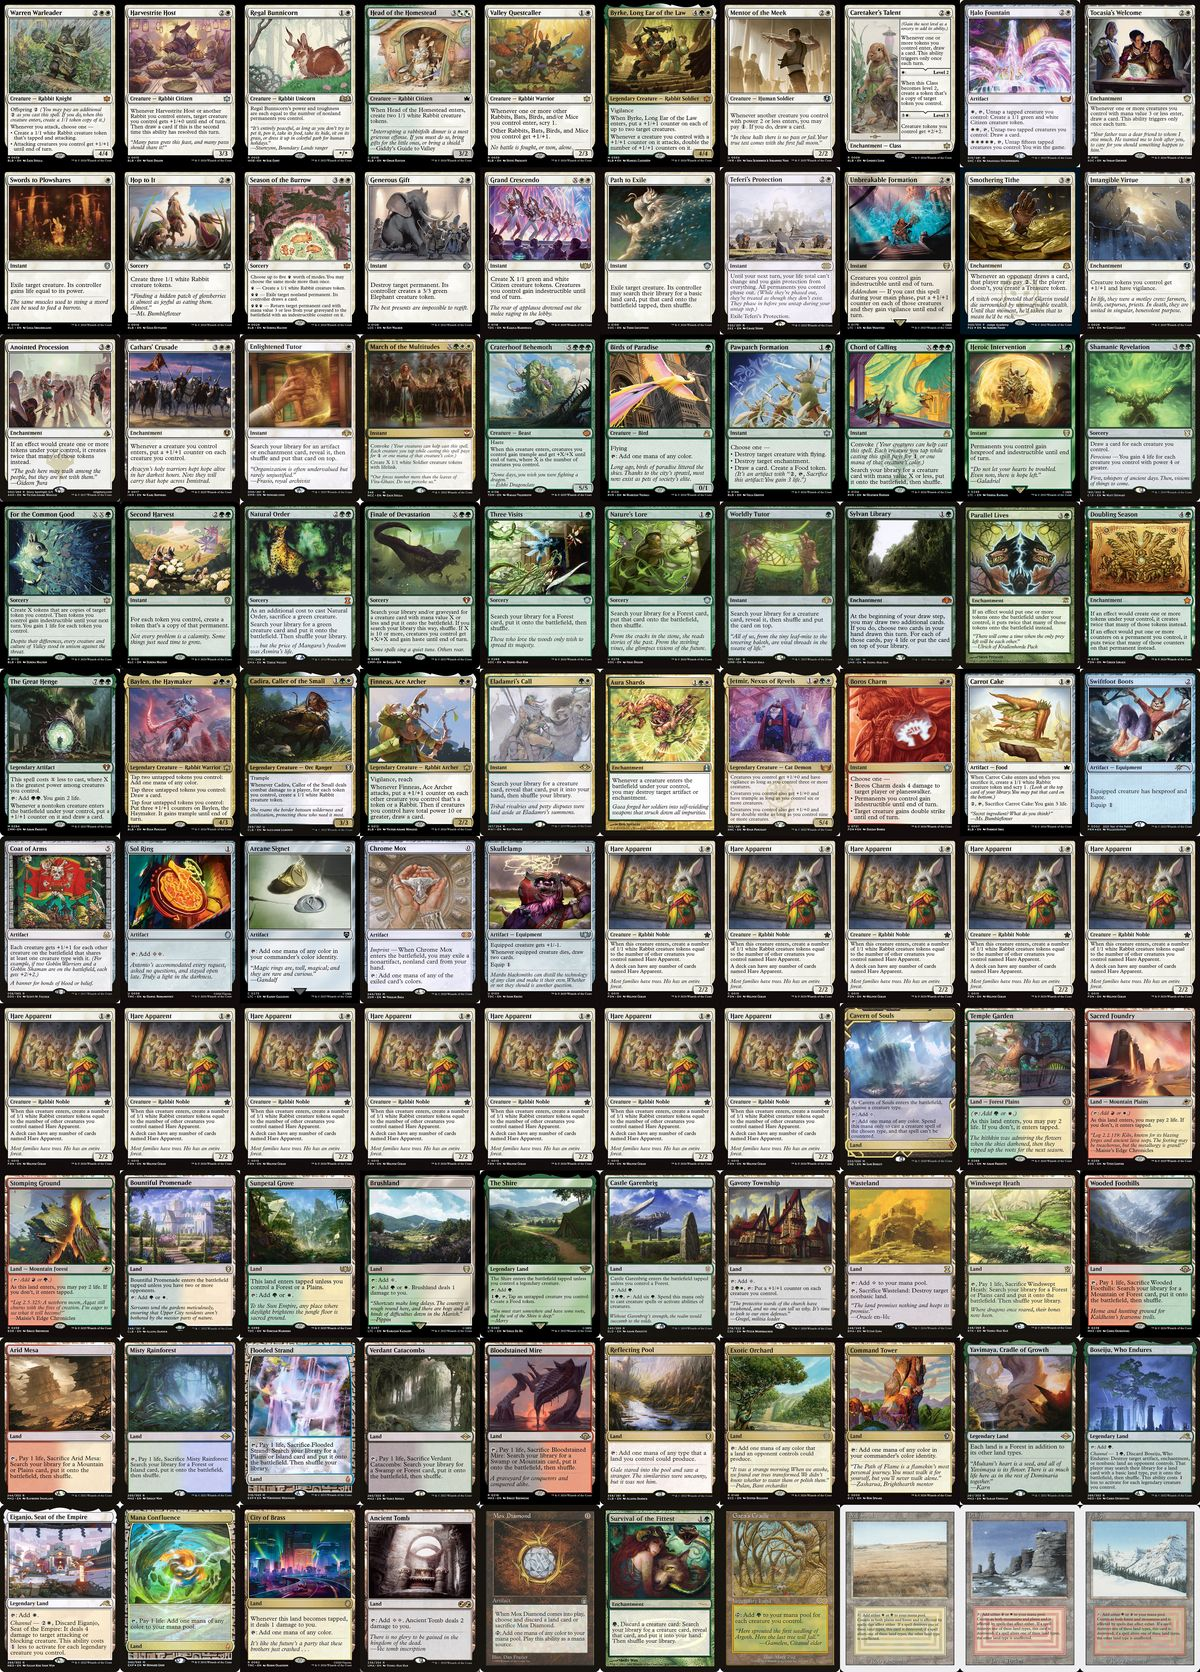
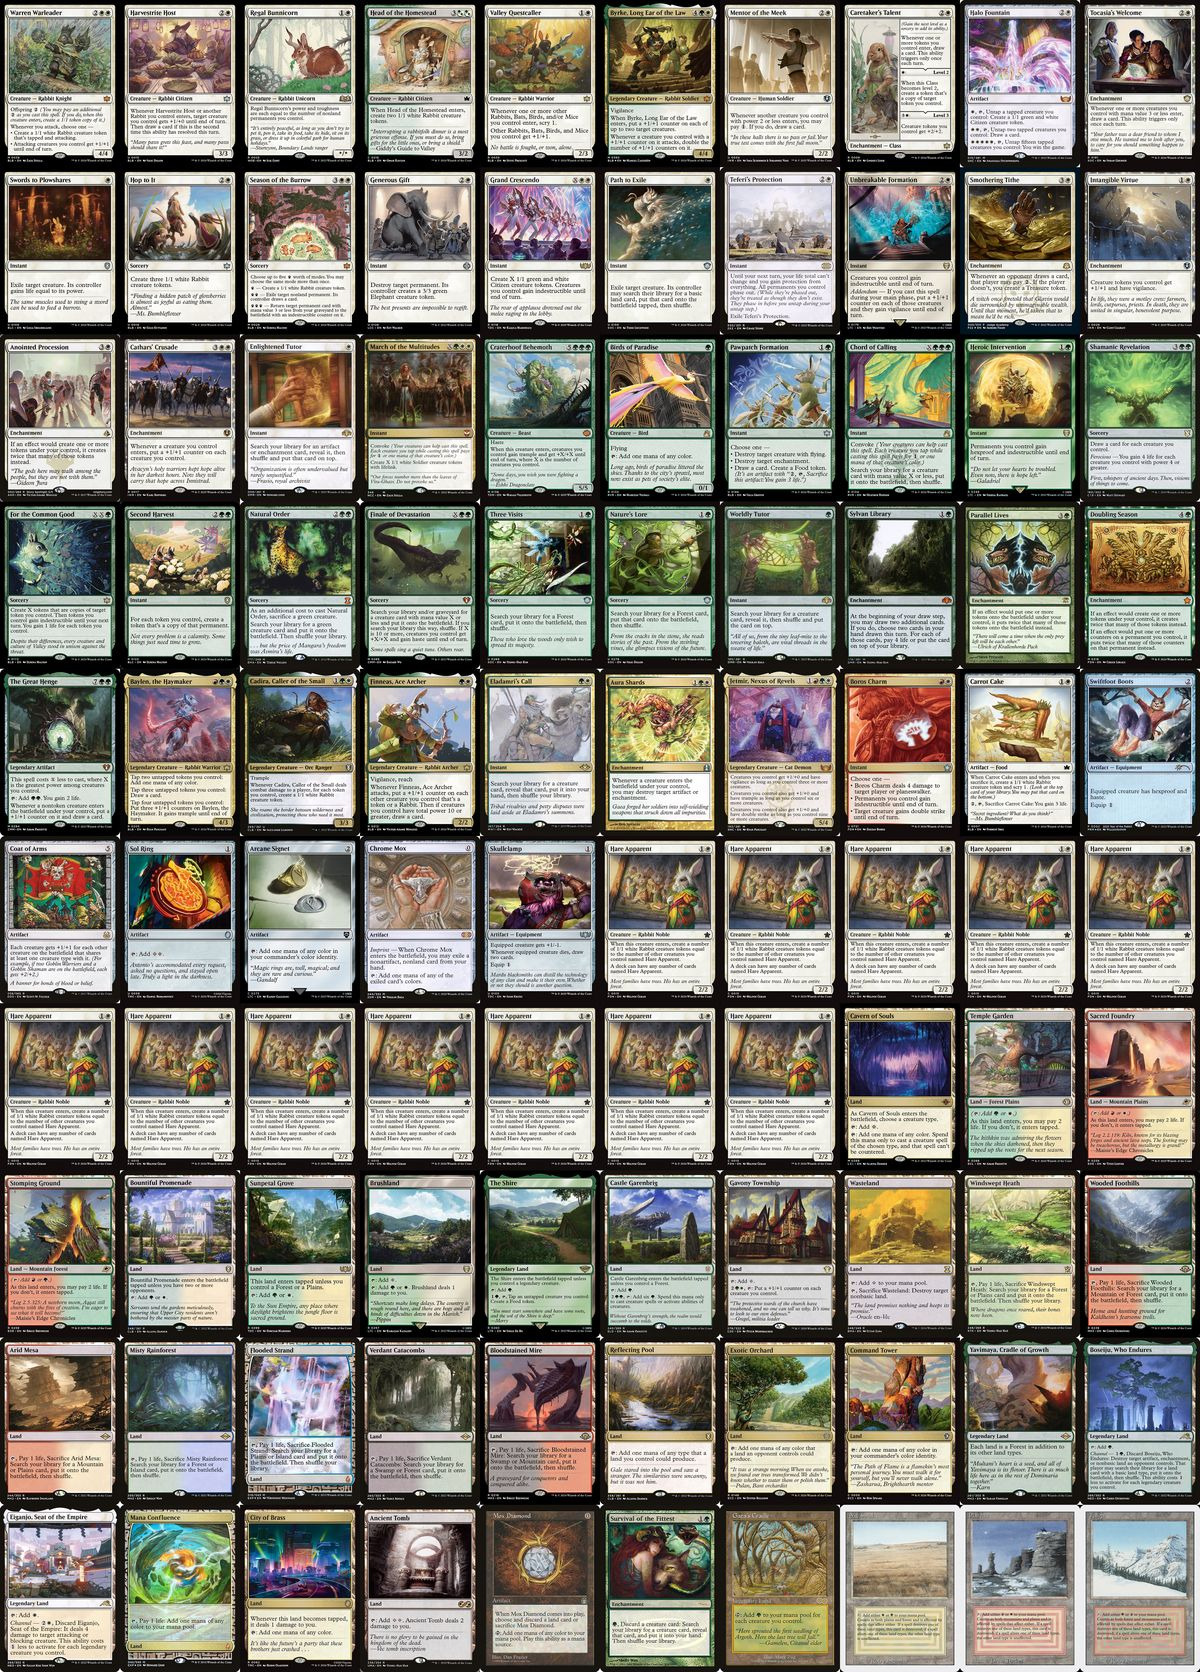
Cavern of Souls: update to LCI printing, regenerate mosaics

Changed region(s): [[0.6783, 0.5909, 0.8017, 0.7153]]

diff --git a/theme_analysis.md b/theme_analysis.md
@@ -125,7 +125,7 @@
 
 | Card | Deck | Scryfall | Rabbit? | Rabbit Art? | Party? | Theme | Justification |
 |------|------|----------|---------|-------------|--------|-------|---------------|
-| Cavern of Souls | Both | [🔗](https://scryfall.com/card/zne/22/cavern-of-souls) | ❌ | ❌ | ✅ | 6 | The underground venue. Name "Rabbit" and every bunny that enters is uncounterable. The cavern protects the party from blue mages trying to shut it down. |
+| Cavern of Souls | Both | [🔗](https://scryfall.com/card/lci/269/cavern-of-souls) | ❌ | ❌ | ✅ | 6 | The underground venue. Name "Rabbit" and every bunny that enters is uncounterable. The cavern protects the party from blue mages trying to shut it down. |
 | Savannah | Both | [🔗](https://scryfall.com/card/3ed/285/savannah) | ❌ | ❌ | ❌ | 3 | The open grassland where rabbits naturally gather. Dual land, no drama, just green and white mana flowing like punch at the bowl. |
 | Brushland | Both | [🔗](https://scryfall.com/card/ltc/297/brushland) | ❌ | ❌ | ❌ | 3 | The brush-covered field where the early arrivals set up camp. Costs 1 life per colored mana — the price of showing up first. |
 | Plateau | Both | [🔗](https://scryfall.com/card/3ed/284/plateau) | ❌ | ❌ | ❌ | 3 | The high ground with a view of the whole party. Red-white dual, flat and reliable. A good vantage point for Warren Warleader. |
